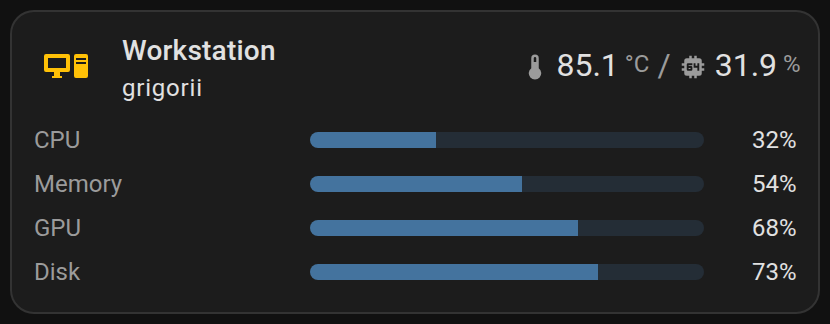
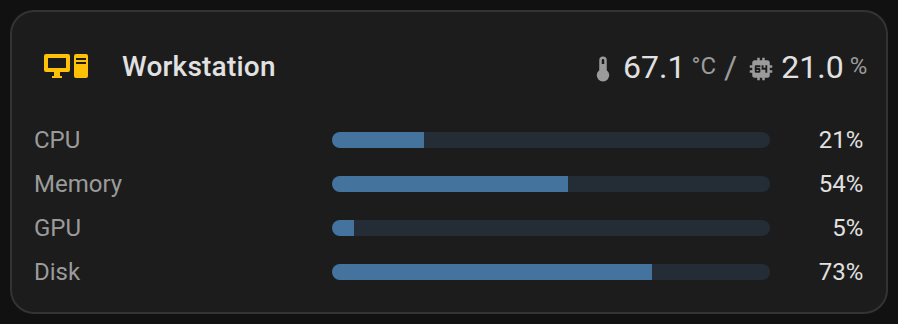
Every screenshot re-shot, in English and from the config
The Cyrillic in the README came from the lab dashboard's own card names, not
from Home Assistant — that has been in English all along. English labels used to
be pasted over the cards by the shooting script, which held only inside one run:
light.png shipped in Russian for a whole release while the script that was meant
to fix it said "Lights".

So the lab dashboard is now English in its config, and the script overrides only
what must never reach a public repository: the person's name and picture, the
media title, and the machine's logged-in user.

The picture at the top comes from a Hero section of its own now, so it can be
repeated instead of being a lucky crop. Heating joins it, and every card was
re-shot on the same dark theme.

diff --git a/CLAUDE.md b/CLAUDE.md
@@ -90,5 +90,13 @@ Rakes already stepped on:
 - The build must run with `NODE_ENV=production` (the npm script sets it): the user's shell
   exports `development`, and Lit then ships its dev build — the bundle silently grows by a
   third.
+- README screenshots are shot from the `cards-lab` dashboard, which is in English: labels
+  come from its config, not from overrides in the shooting script. Overrides that lived
+  only inside a script drifted from what was committed once already — `light.png` stayed
+  Russian for a whole release.
 - README screenshots must not contain addresses, faces or names of real people — the
-  person card is anonymised before the shot (`show_entity_picture: false`, no `location`).
+  person card is anonymised before the shot (`show_entity_picture: false`, no `location`),
+  the media title is replaced, and the computer card drops `current_users`. Those four are
+  the only runtime overrides left.
+- The picture at the top of the README comes from the lab's own `Hero` section: nine
+  cards, half a section wide each, in a known order, so the shot can be repeated.
